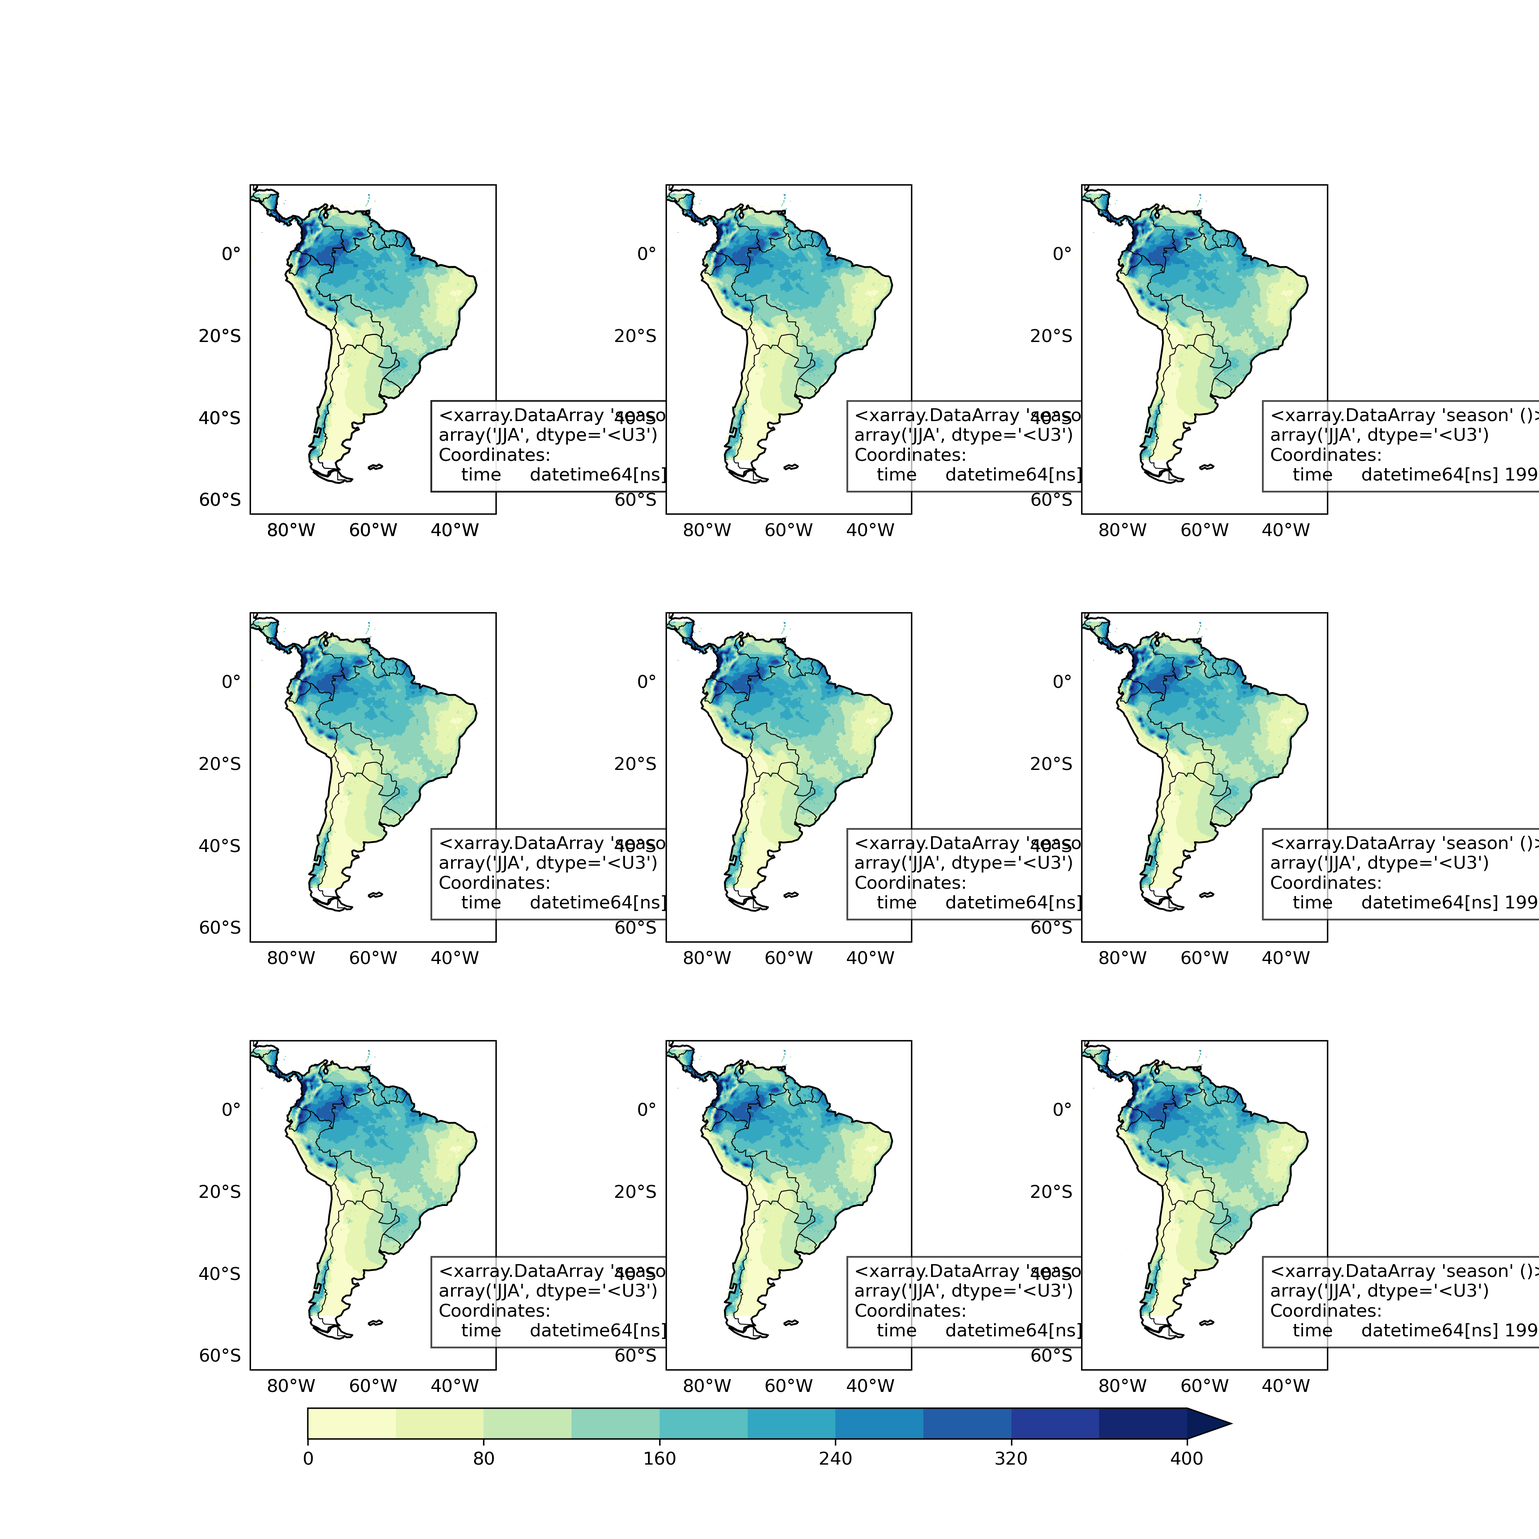
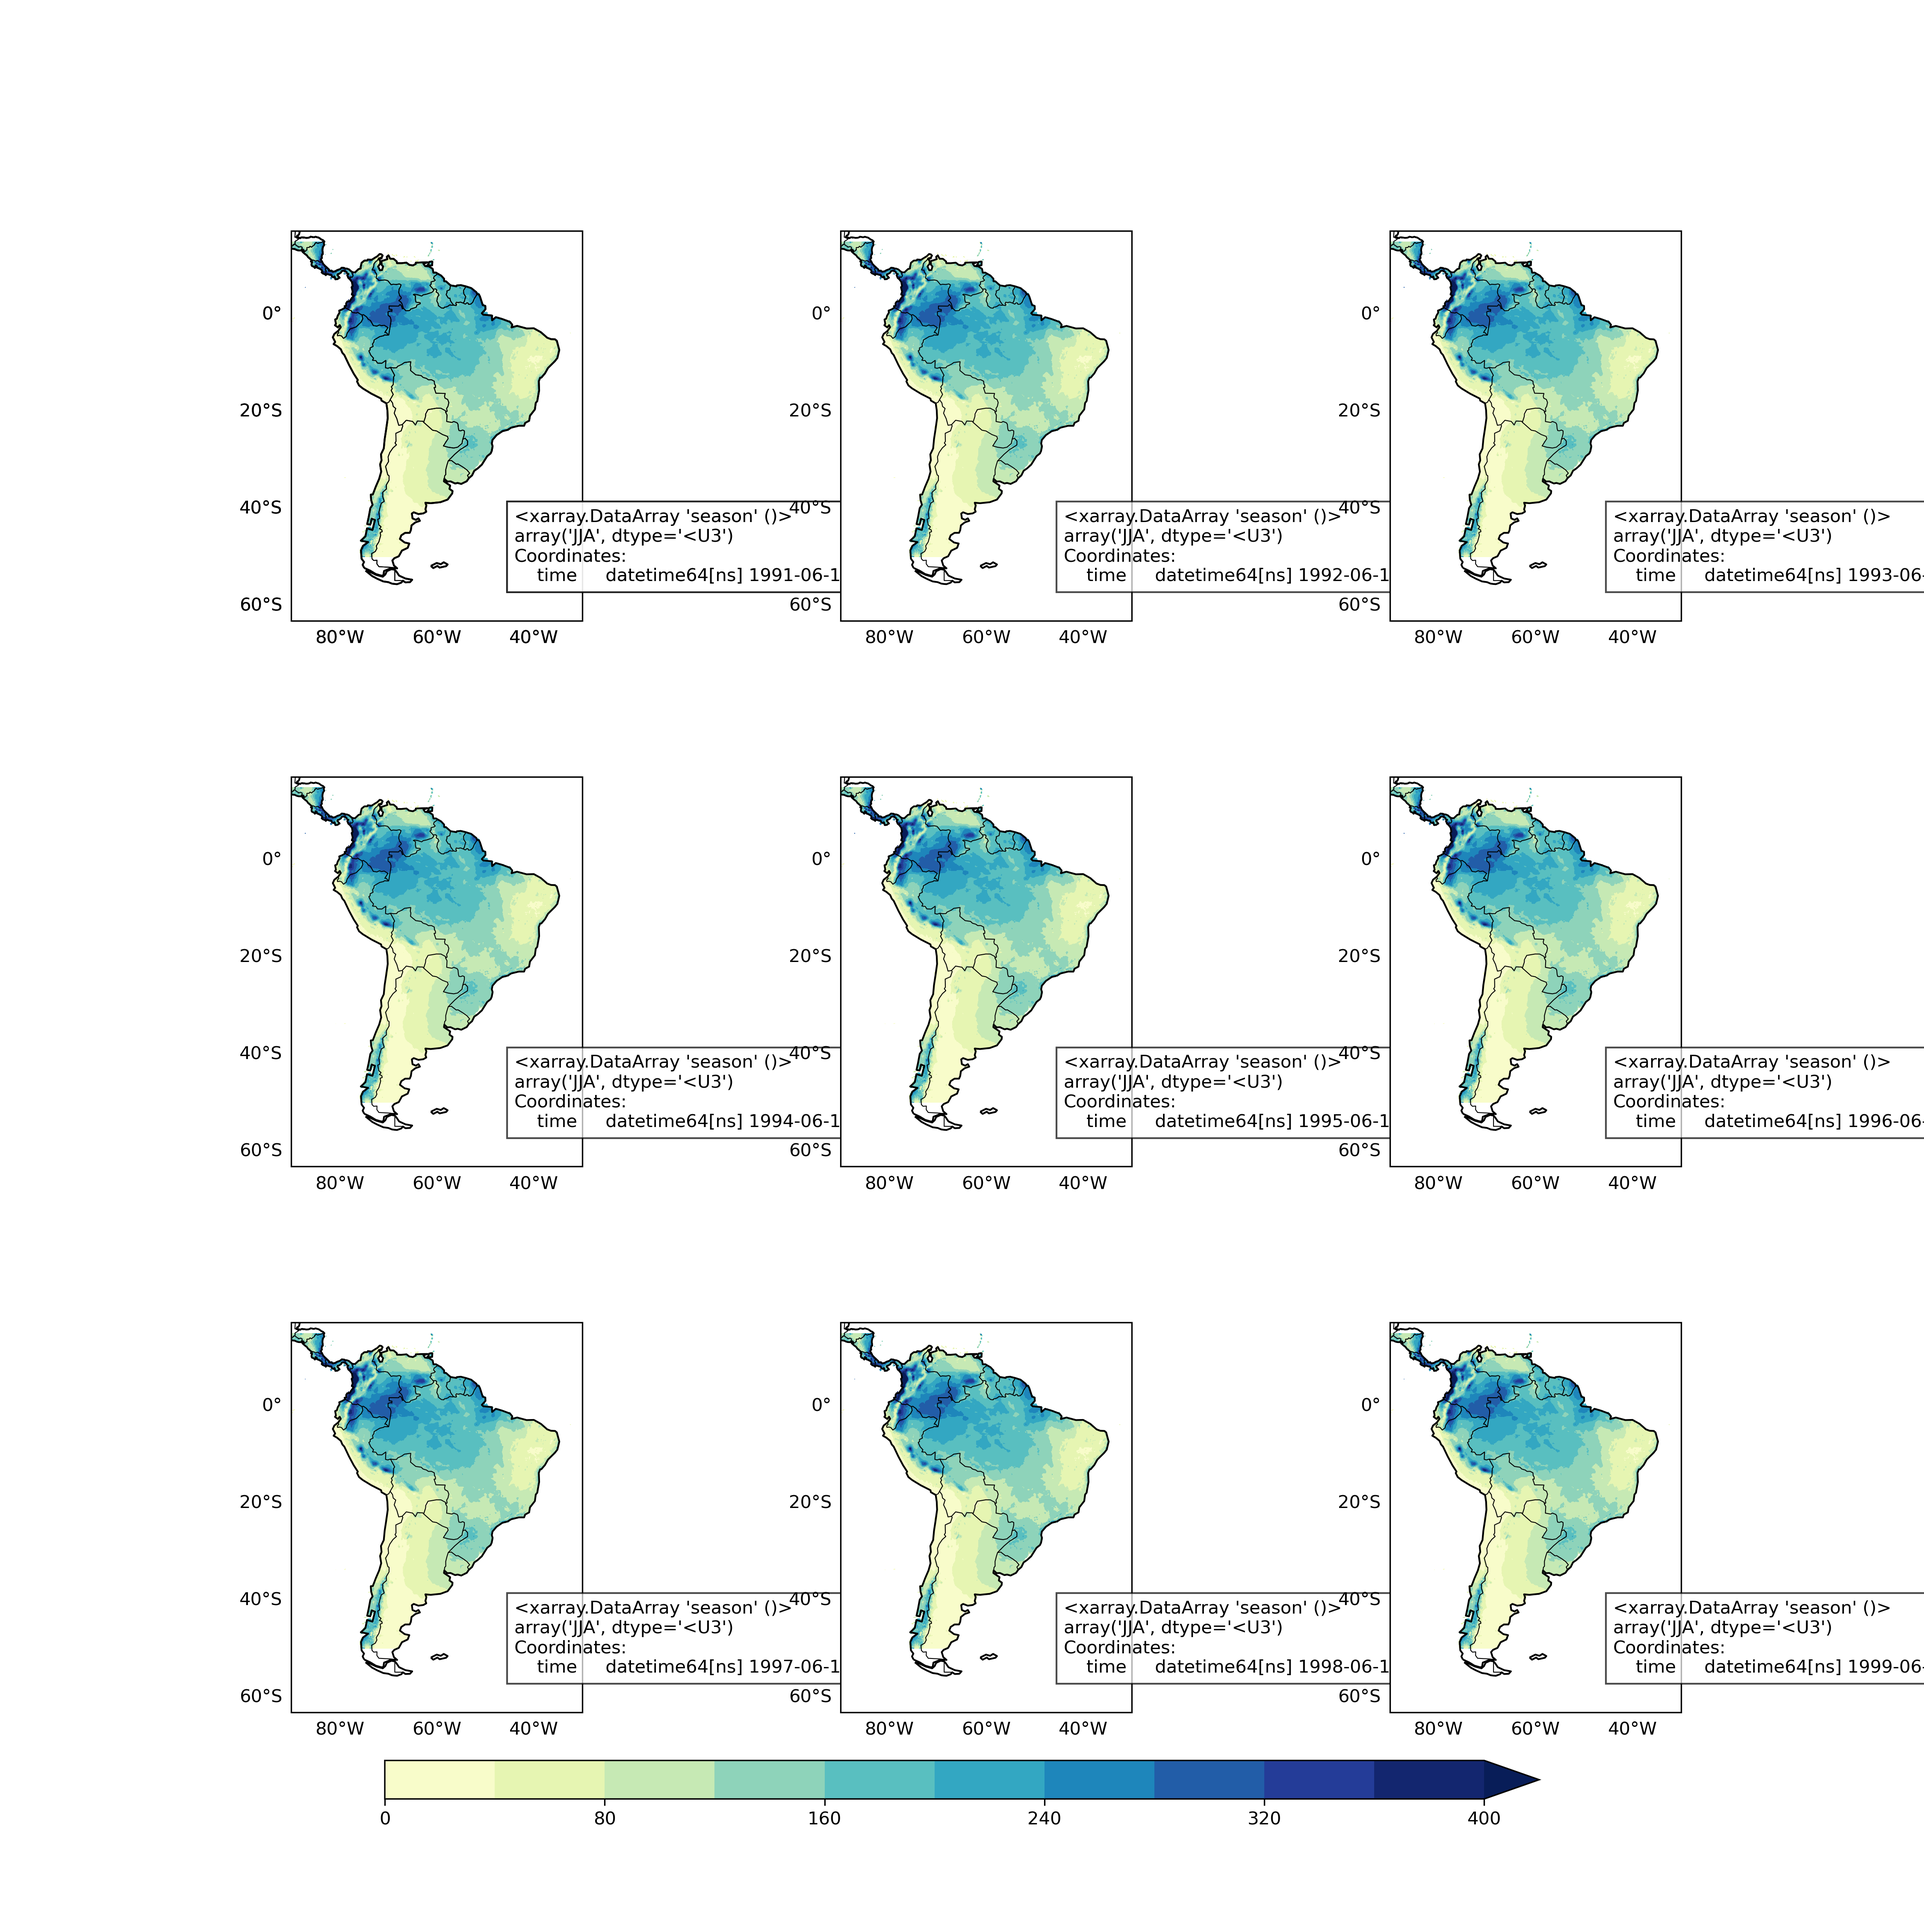
Fix some pictures

diff --git a/Atividade-4.5/MediaSazonal/MediaSazonalCHIRPS.py b/Atividade-4.5/MediaSazonal/MediaSazonalCHIRPS.py
@@ -57,7 +57,7 @@ cnplot = ax.contourf(clim.longitude, clim.latitude, clim, cmap='YlGnBu',levels =
 
 # Adiciona uma barra de cores (colorbar) na parte inferior do gráfico
 cbar = plt.colorbar(cnplot, orientation='horizontal', pad=0.07, shrink=0.6)
-cbar.set_label('precipitation (mm/day) \n CHIRPS(2002)')
+cbar.set_label('precipitation (mm/day) \n CHIRPS')
 
 # Define o título do gráfico
 ax.set_title('(matplotlib)')
@@ -89,9 +89,8 @@ def create_plot(ax, nrow, ncol, data, tlon, season=''):
     return cnplot
 
 # Cria uma figura e uma grade de subplots
-fig = plt.figure()
-# plt.show()
-gs = gridspec.GridSpec(2, 2, hspace=0.12, wspace=0.00)
+fig = plt.figure(figsize=(10, 8))
+gs = gridspec.GridSpec(2, 2, hspace=0.2, wspace=0.00)
 
 # Define as estações que deseja plotar
 seasons = ['DJF', 'MAM', 'JJA', 'SON']
@@ -103,9 +102,27 @@ for i, season in enumerate(seasons):
     create_plot(plt.subplot(gs[row, col], projection=ccrs.PlateCarree()), row, col, sclim, -44, season)
 
 # Adiciona uma barra de cores
-cax = plt.axes([0.2, 0.065, 0.6, 0.069])
+cax = plt.axes([0.2, 0.065, 0.6, 0.01])
 cbar = plt.colorbar(create_plot(plt.subplot(gs[0, 0], projection=ccrs.PlateCarree()), 0, 0, sclim, -44, 'DJF'), cax=cax, orientation='horizontal', pad=0.4)
 
 # Salva a figura e a exibe
-plt.savefig('s2-CHIRPSMediaSazonal.png', dpi=300)
+plt.savefig('CHIRPSMediasSazonais.png', dpi=300)
 plt.show()
+
+# Abre as imagens salvas
+img = Image.open("CHIRPSMediaSazonal.png")
+img1 = Image.open("CHIRPSMediasSazonais.png")
+
+# Redimensiona as imagens
+img_size = img.resize((670, 1024))
+img1_size = img1.resize((670, 1024))
+
+# Cria uma nova imagem branca
+img2 = Image.new("RGB", (1340, 1024), "white")
+
+# Cola as imagens na nova imagem
+img2.paste(img_size, (0, 0))
+img2.paste(img1_size, (670, 0))
+
+# Salva a nova imagem
+img2.save('Junção-medias-sazonais.png')

diff --git a/Atividade-4.5/MediaAnual/MediaAnual.py b/Atividade-4.5/MediaAnual/MediaAnual.py
@@ -43,8 +43,8 @@ def create_plot(ax, data, tlon, season=''):
     return cnplot
 
 # Cria uma figura e uma grade de subplots
-fig = plt.figure(figsize=(12, 12))
-gs = gridspec.GridSpec(3, 3, hspace=0.3, wspace=0.15)
+fig = plt.figure(figsize=(15, 15))
+gs = gridspec.GridSpec(3, 3, hspace=0.4, wspace=0.4)
 
 # Cria e plota os subplots para cada temporada
 for i, season in enumerate(primeiras_jja):
@@ -57,5 +57,5 @@ cax = plt.axes([0.2, 0.065, 0.6, 0.02])
 cbar = plt.colorbar(create_plot(plt.subplot(gs[0, 0], projection=ccrs.PlateCarree()), sclim, -44, primeiras_jja[0]), cax=cax, orientation='horizontal', pad=0.4)
 
 # Salva a figura e a exibe
-plt.savefig('./ImagensMediaAnual/s2-CHIRPSMediaAnual.png', dpi=300)
+plt.savefig('s2-CHIRPSMediaAnual.png', dpi=300)
 plt.show()
